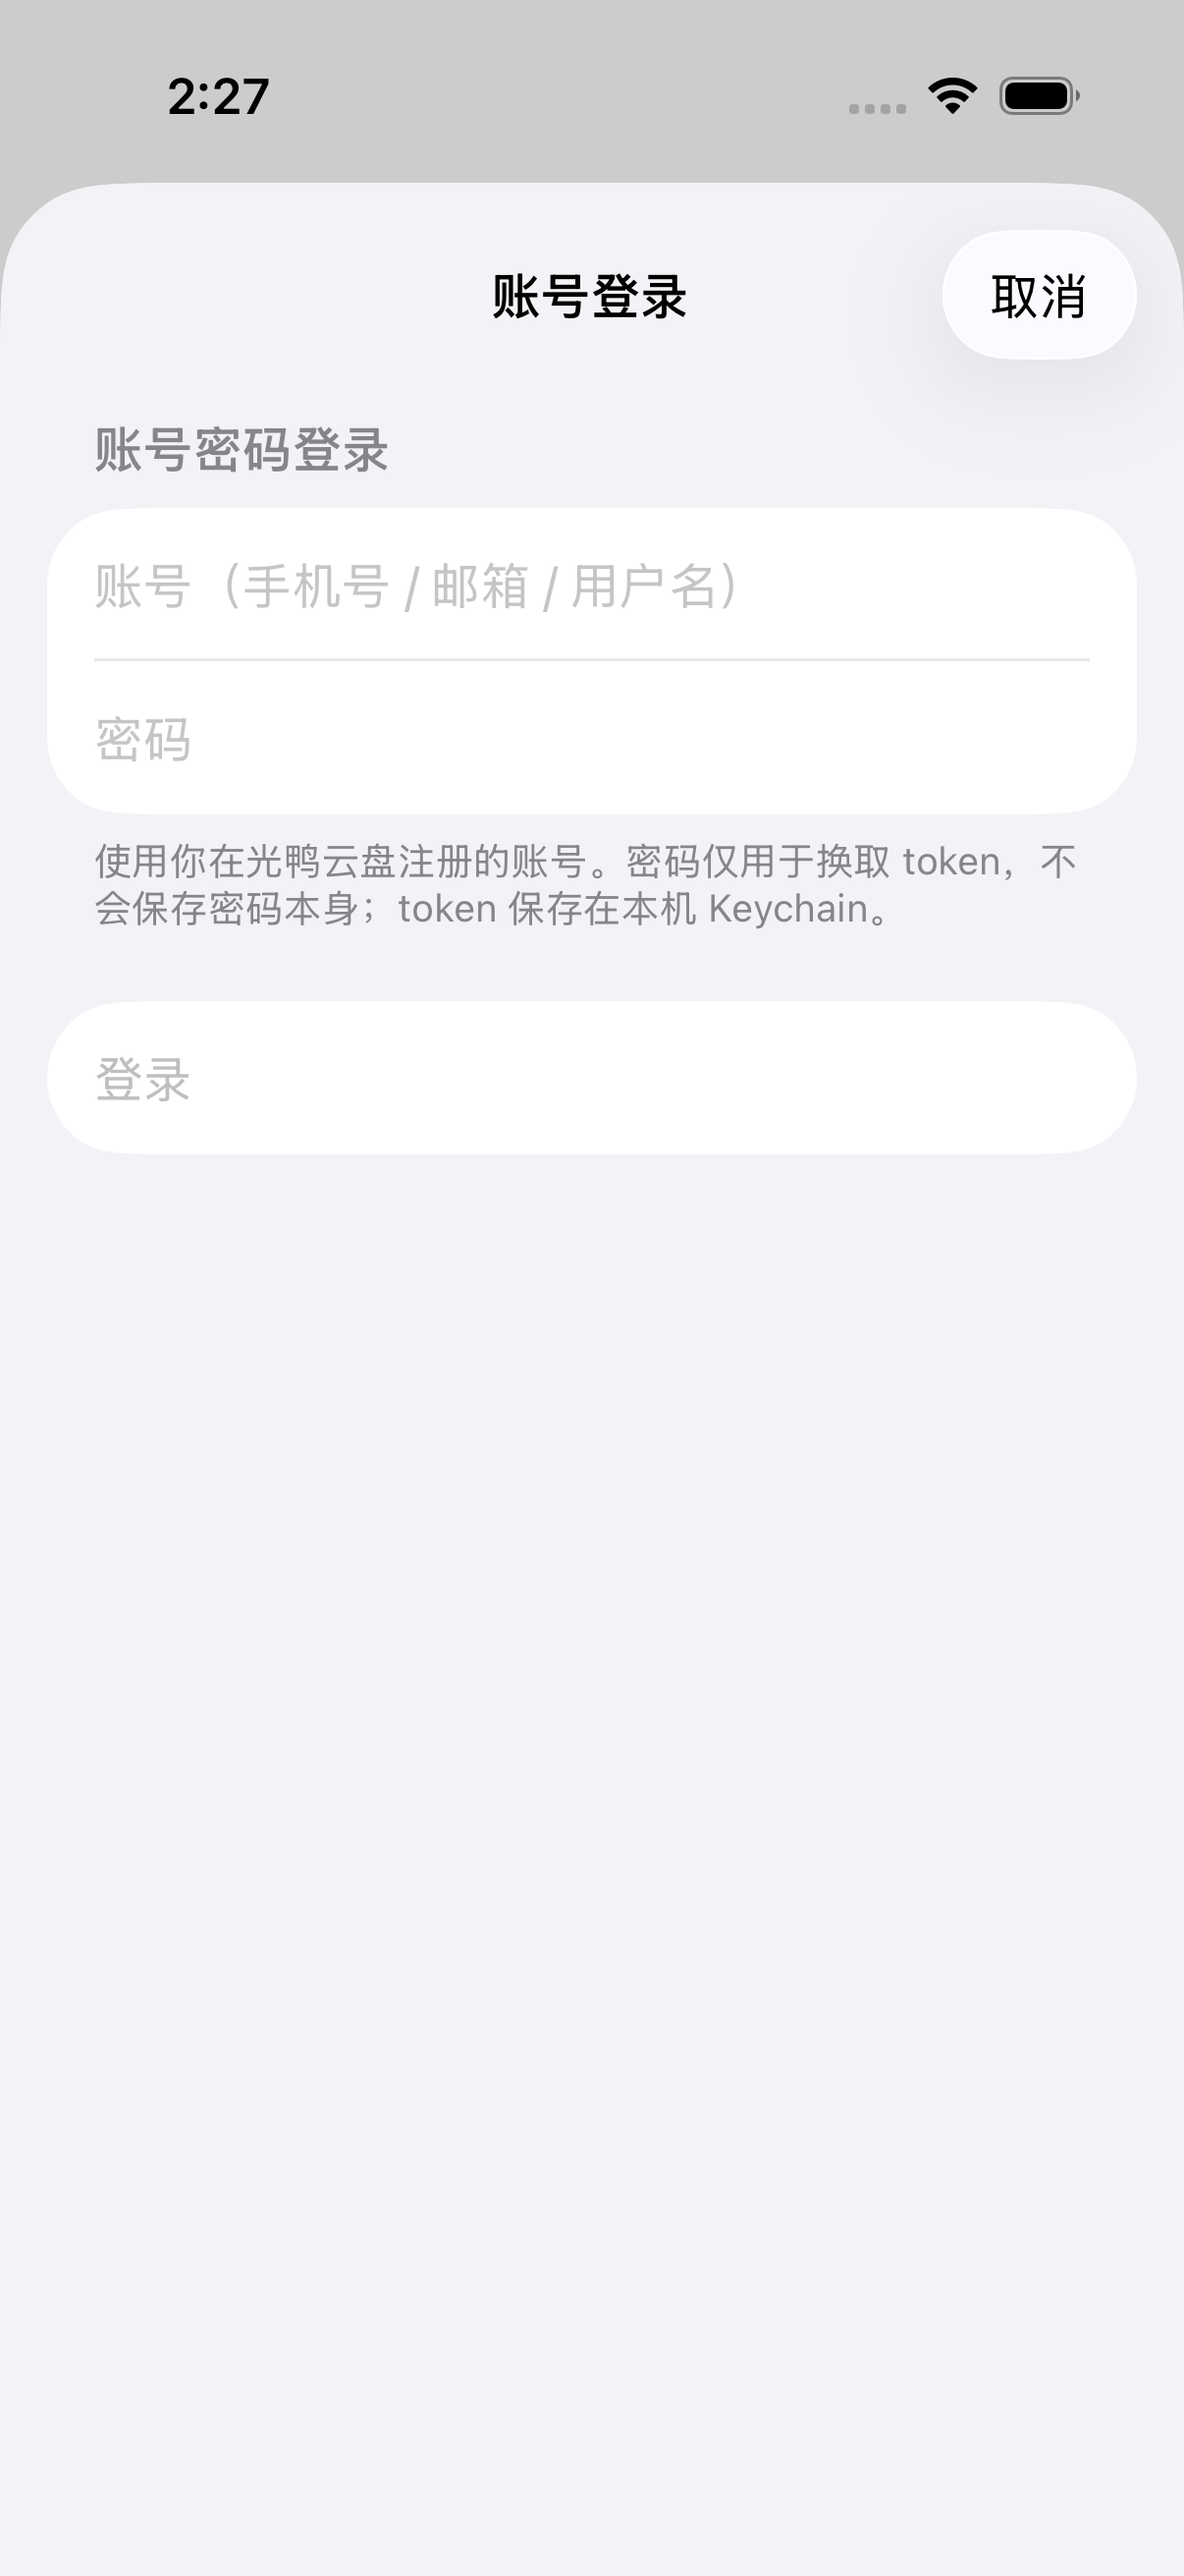
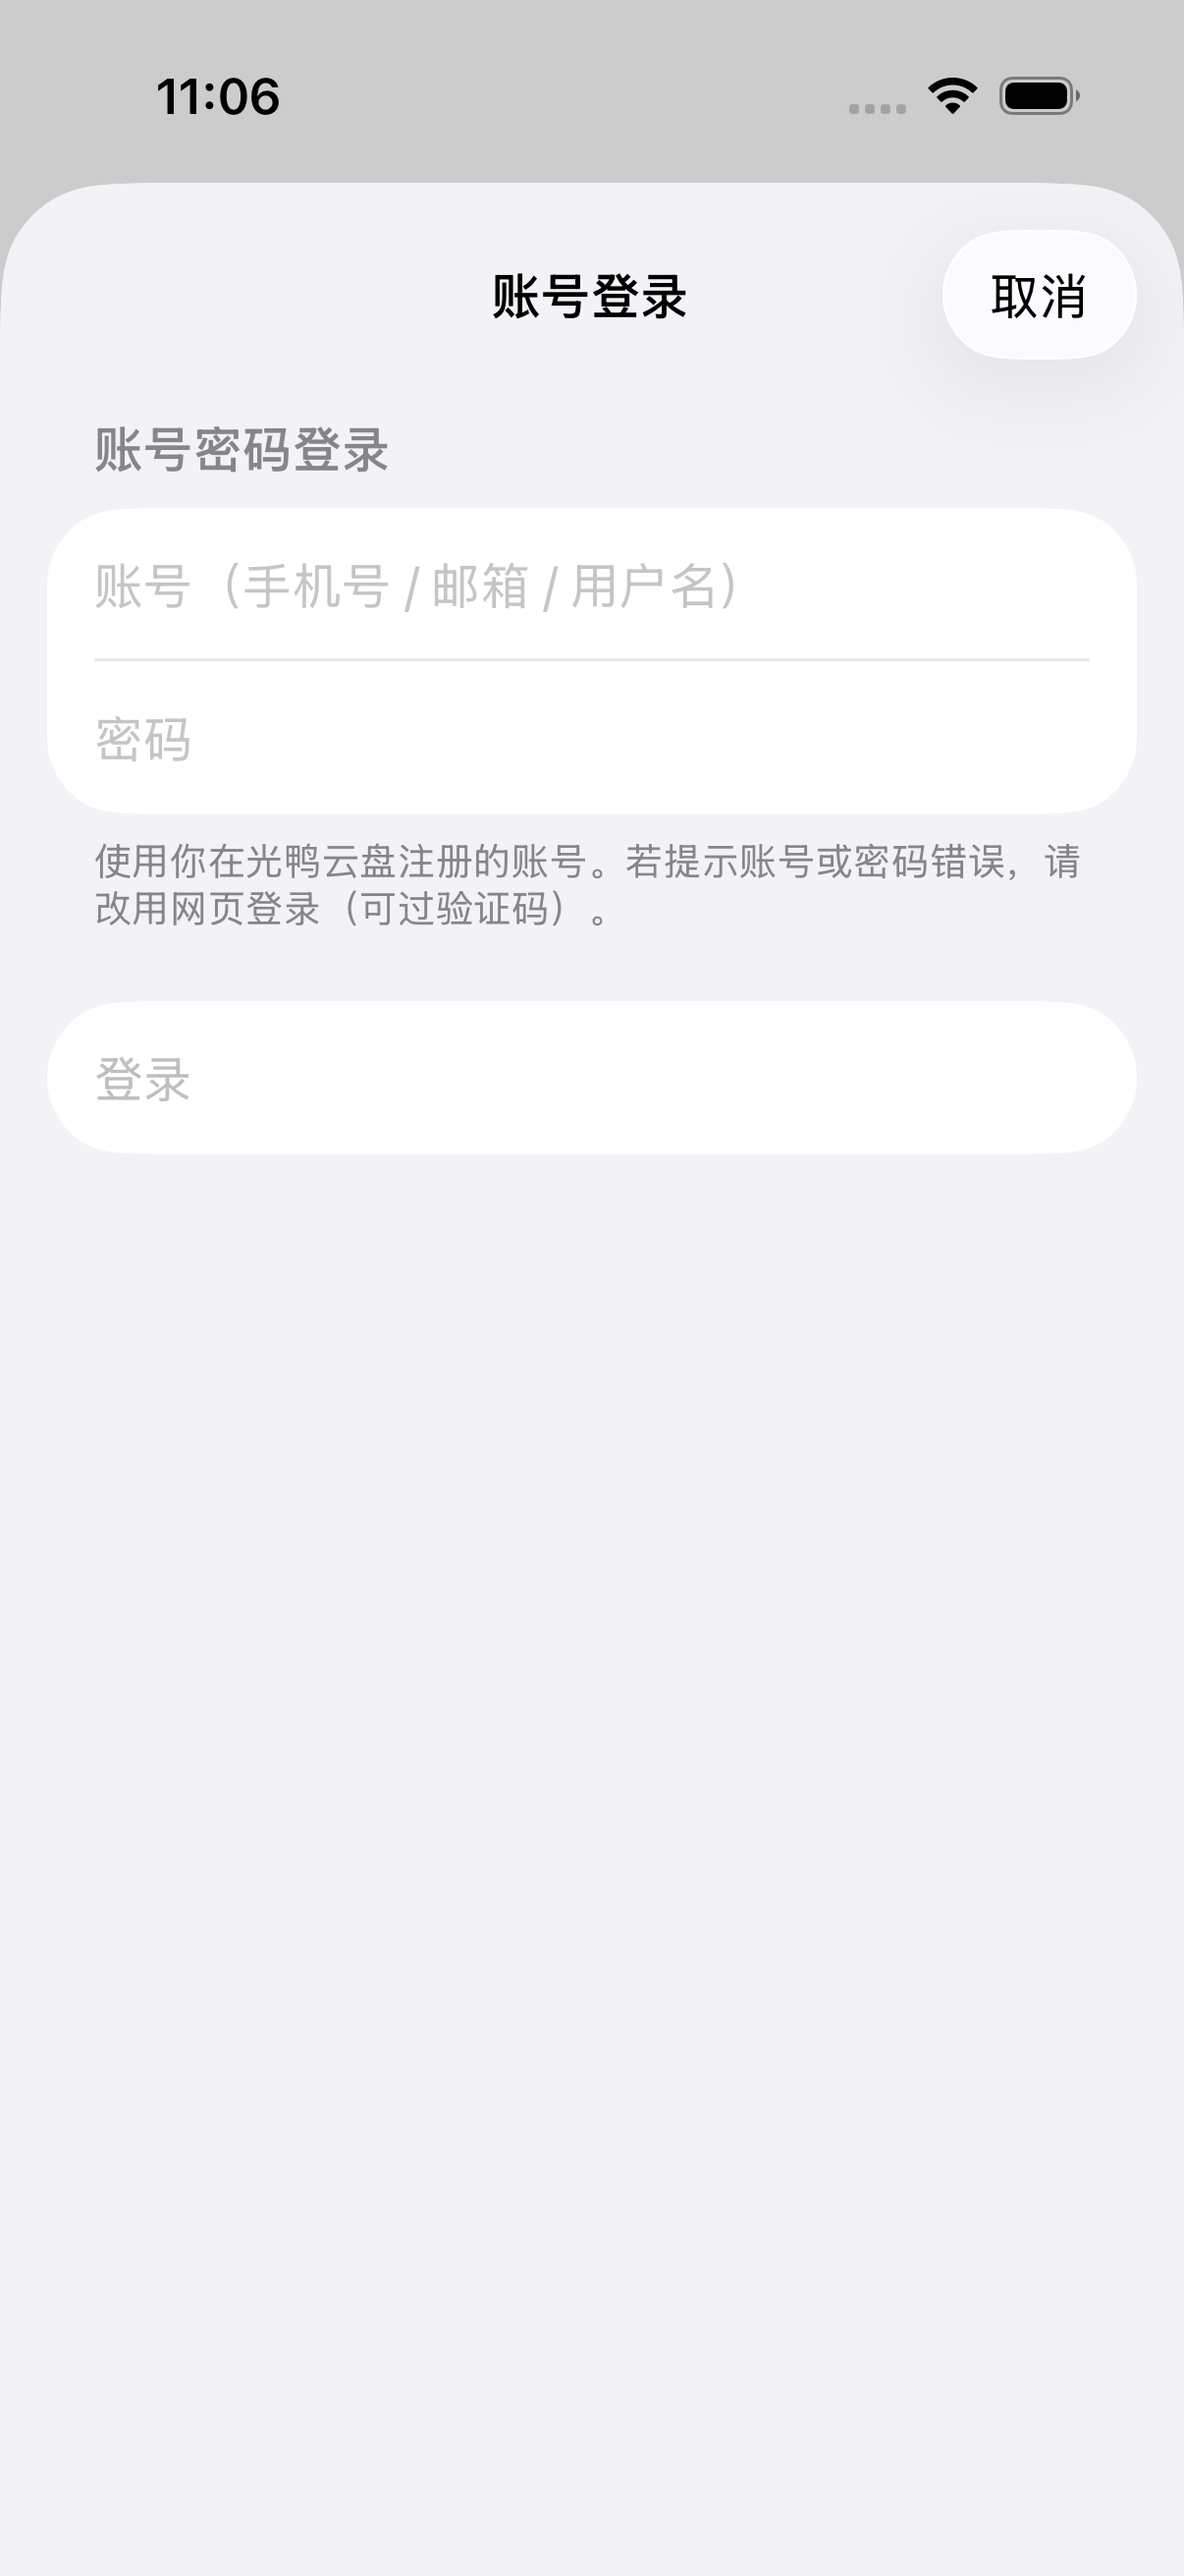
test(m2): UI 测试适配精简后登录页标签 + 归档新登录页截图

Changed region(s): [[0.092, 0.3089, 0.859, 0.3707], [0.1227, 0.0309, 0.2454, 0.0618], [0.8897, 0.3089, 0.9204, 0.3398]]

diff --git a/Tests/LemonPlayerUITests/LoginFlowUITests.swift b/Tests/LemonPlayerUITests/LoginFlowUITests.swift
@@ -27,7 +27,7 @@ final class LoginFlowUITests: XCTestCase {
         }
 
         // 网页登录入口（WkWebView 加载 www.guangyapan.com/oauth/login）
-        let webButton = app.buttons["网页登录（推荐，可过验证码）"]
+        let webButton = app.buttons["网页登录"]
         if webButton.waitForExistence(timeout: 10) {
             webButton.tap()
             sleep(8)
